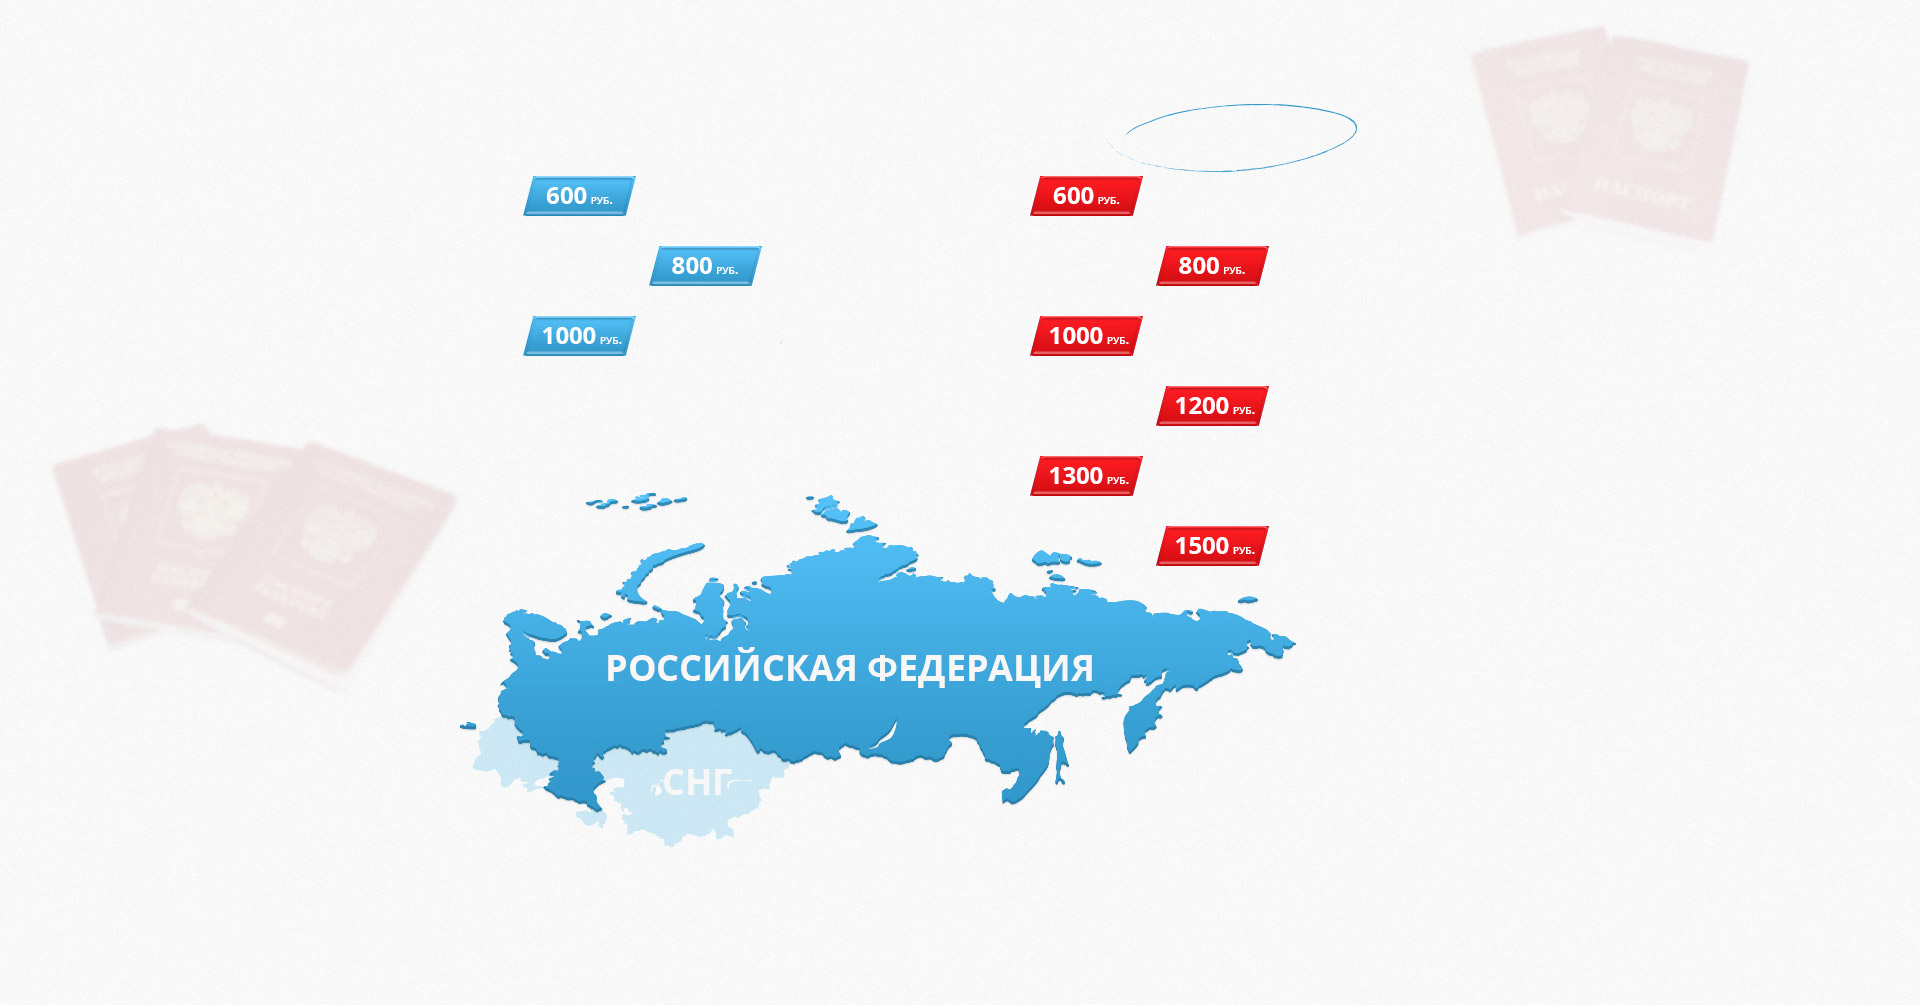
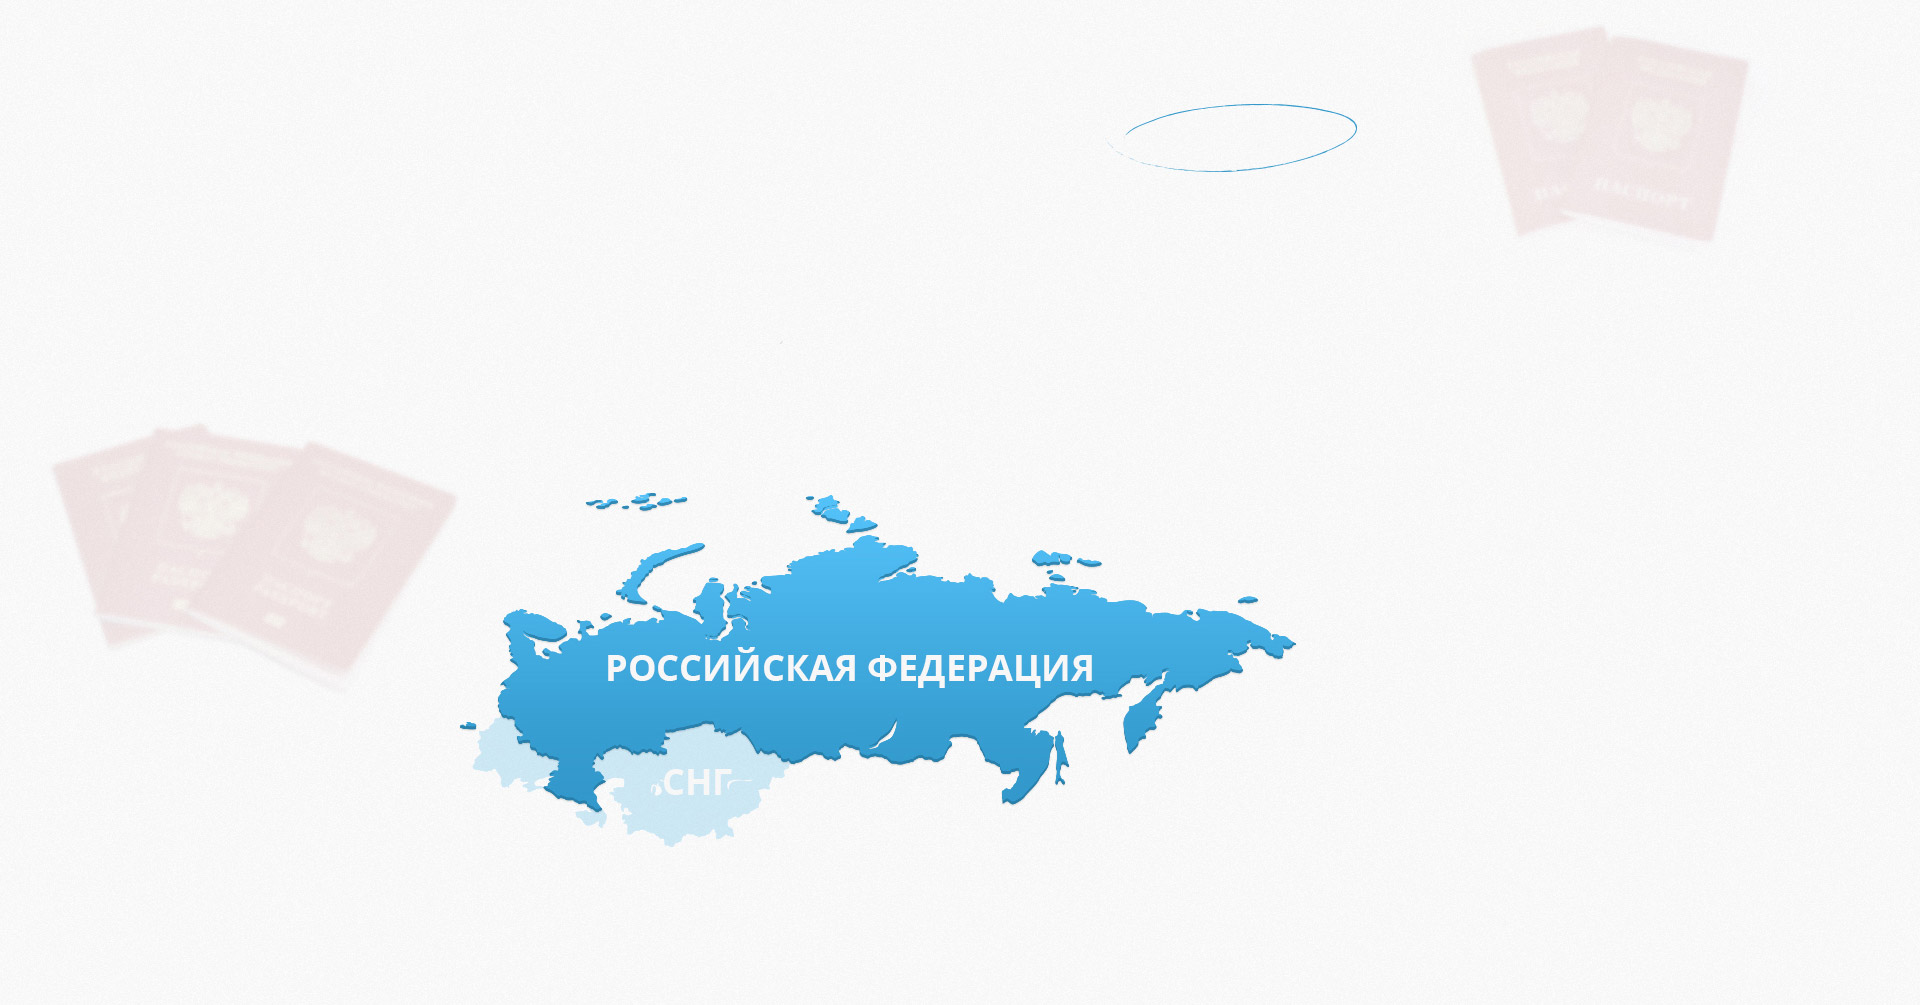
now, buttons on price block are working
lol

diff --git a/style.css b/style.css
@@ -69,18 +69,21 @@ header button:active{margin-top:9px;box-shadow:none;}
 #price ol{list-style:none;font:italic 15px "Trebuchet MS";padding-top:13px}
 #price ol strong{font-weight:bold}
 #price div{width:479px;height:870px;position:relative;}
-#price button{font:20px "Trebuchet MS";color:white;}
-#price button p{padding-left:55px}
-#price button span{font:bold 22px "Trebuchet MS";text-transform:uppercase}
+#price div > button{font:20px "Trebuchet MS";color:white;}
+#price div > button p{padding-left:55px}
+#price div > button span{font:bold 22px "Trebuchet MS";text-transform:uppercase}
 #price div.left h4{padding-left:165px}
-#price div.left ol{padding-left:160px}
-#price  ol li{padding-top:27px;padding-bottom:28px}
+#price div.left ol{padding-left:44px}
+#price  ol li{padding-top:12px;padding-bottom:19px}
 #price div.left ol li:nth-child(2){padding-left:125px;margin-top:-8px;margin-bottom:-6px}
 #price div.right h4{padding-left:189px}
-#price div.right ol{padding-left:184px}
+#price div.right ol{padding-left:69px}
 #price div.right ol li:nth-child(even){padding-left:125px;margin-top:-8px;margin-bottom:-6px}
-#price div.left button  {position:absolute;bottom:0;left:56px;background:url(img/b1.png)no-repeat top center;width:366px;height:72px;border:none}
-#price div.right button{position:absolute;bottom:0;left:56px;background:url(img/b2.png)no-repeat top center;width:366px;height:72px;border:none}
+#price div.left   > button  {position:absolute;bottom:0;left:56px;background:url(img/b1.png)no-repeat top center;width:366px;height:72px;border:none}
+#price div.right > button{position:absolute;bottom:0;left:56px;background:url(img/b2.png)no-repeat top center;width:366px;height:72px;border:none}
+#price li button{background:url(img/blue.jpg) center center no-repeat;width:115px;line-height:42px;border:none;font-family:"Trebuchet MS";font-size:22px;font-weight:900;color:white;font-style:normal;text-shadow:white 0 1px 1px}
+#price li button:after{content:' Руб.';text-transform:uppercase;font-size:10px;text-shadow:none}
+#price .right li button{background-image:url(img/red.jpg)}
 
 #what{background:white;}
 #what main{background:url('img/okno1.jpg') bottom left no-repeat;height:550px;}

diff --git a/index.html b/index.html
@@ -71,21 +71,21 @@
  <div class="left">
  <h4>для граждан снг</h4>
  <ol>
- <li>регистрация на <strong>3 месяца</strong></li>
- <li>регистрация на <strong>6 месяцев</strong></li>
- <li>регистрация на <strong>1 год</strong></li>
+ <li><button class="button" data-from="СНГ">600</button>регистрация на <strong>3 месяца</strong></li>
+ <li><button class="button" data-from="СНГ">800</button>регистрация на <strong>6 месяцев</strong></li>
+ <li><button class="button" data-from="СНГ">1000</button>регистрация на <strong>1 год</strong></li>
  </ol>
  <button class="button" data-from="СНГ"><p><span>онлайн заявка</span><br/>на регистрацию граждан СНГ</p></button>
  </div>
  <div class="right">
  <h4>для граждан рф</h4>
  <ol>
- <li>регистрация на <strong>6 месяцев</strong></li>
- <li>регистрация на <strong>1 год</strong></li>
- <li>регистрация на <strong>2 года</strong></li>
- <li>регистрация на <strong>2 года</strong></li>
- <li>регистрация на <strong>2 года</strong></li>
- <li>регистрация на <strong>5 лет</strong></li>
+ <li><button class="button" data-from="РФ">600</button>регистрация на <strong>6 месяцев</strong></li>
+ <li><button class="button" data-from="РФ">800</button>регистрация на <strong>1 год</strong></li>
+ <li><button class="button" data-from="РФ">1000</button>регистрация на <strong>2 года</strong></li>
+ <li><button class="button" data-from="РФ">1200</button>регистрация на <strong>2 года</strong></li>
+ <li><button class="button" data-from="РФ">1300</button>регистрация на <strong>2 года</strong></li>
+ <li><button class="button" data-from="РФ">1500</button>регистрация на <strong>5 лет</strong></li>
  </ol>
  <button class="button" data-from="РФ"><p><span>онлайн заявка</span><br/>на регистрацию граждан РФ</p></button>
  </div>
